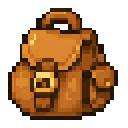
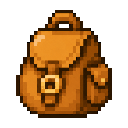
feat(P02-T05): apply bag asset and add gacha candidate

diff --git a/docs/PROGRESS.md b/docs/PROGRESS.md
@@ -174,8 +174,10 @@ P02-T05 구현 완료, 개발자 리뷰 대기.
 - `game-frame`, `inventory`, `progress` UI 에셋을 직접 픽셀 제작 방식으로 다시 그려 임시 사각 테두리 느낌을 줄이고 HUD/패널/슬롯/게이지의 게임 UI 감성을 보강했다.
 - `내 방` 집 에셋을 기준으로 만든 `같이 하기` 문 후보 `public/assets/rooms/my-room/menu-objects/candidates/object-visit-candidate-1.png`를 승인된 최종 런타임 에셋 `object-visit.png`로 승격했다.
 - 비교 검사용 시트 `public/assets/rooms/my-room/menu-objects/candidates/object-visit-candidate-1-preview.png`에는 기준 `내 방`, 현재 `같이 하기`, 신규 후보를 128px/64px로 나란히 배치했다.
-- 다음 에셋 후보로 `꾸미기` 가방 `public/assets/rooms/my-room/menu-objects/candidates/object-customize-candidate-1.png`를 만들었다. 승인 전이므로 런타임 최종 `object-customize.png`는 아직 덮어쓰지 않았다.
+- `꾸미기` 가방 후보 `public/assets/rooms/my-room/menu-objects/candidates/object-customize-candidate-1.png`를 승인된 최종 런타임 에셋 `object-customize.png`로 승격했다.
 - 비교 검사용 시트 `public/assets/rooms/my-room/menu-objects/candidates/object-customize-candidate-1-preview.png`에는 기준 `내 방`, 승인된 `같이 하기`, 현재 `꾸미기`, 신규 후보를 128px/64px로 나란히 배치했다.
+- 다음 에셋 후보로 `뽑기` 기계 `public/assets/rooms/my-room/menu-objects/candidates/object-gacha-candidate-1.png`를 만들었다. 승인 전이므로 런타임 최종 `object-gacha.png`는 아직 덮어쓰지 않았다.
+- 비교 검사용 시트 `public/assets/rooms/my-room/menu-objects/candidates/object-gacha-candidate-1-preview.png`에는 기준 `내 방`, 승인된 `같이 하기`, 승인된 `꾸미기`, 현재 `뽑기`, 신규 후보를 128px/64px로 나란히 배치했다.
 - 승인된 `source-scene.png`, `base-room.png`, `foreground-scene.png`의 SHA-256 hash는 변경 전과 동일하며, 각각 `source/`와 `layers/` 하위 폴더로 정리했다.
 - `public/assets/**` 루트에는 런타임 최종 에셋만 두고, 승인 전 후보는 `menu-objects/candidates/`처럼 별도 하위 폴더에 둔다.
 - `docs/tasks/phase-02/T05-management-inventory.md`, `docs/PIXEL_ASSET_PIPELINE.md`, `docs/DECISIONS.md`를 새 헤더 에셋 메뉴 방향에 맞게 갱신했다.
@@ -191,7 +193,7 @@ P02-T05 구현 완료, 개발자 리뷰 대기.
 - `public/assets/characters/deebi/deebi.png`는 개발자 제공 기준 캐릭터 원본으로 취급한다. 원본을 덮어쓰지 말고, 필요하면 파생 파일만 만든다.
 - UI 에셋은 용도별로 `public/assets/ui/game-frame/`, `public/assets/ui/inventory/`, `public/assets/ui/progress/`에 있다. 텍스트/숫자는 에셋에 굽지 않고 HTML로 유지한다.
 - 헤더 메뉴 에셋은 `public/assets/rooms/my-room/menu-objects/object-visit.png`, `object-my-room.png`, `object-customize.png`, `object-gacha.png` 파일을 사용한다. 현재 실제 버튼은 헤더에 있고 stage 내부에는 없다.
-- `같이 하기` 문 품질 리워크는 최종 `object-visit.png`에 반영 완료했다. 다음은 `꾸미기` 가방 후보 `menu-objects/candidates/object-customize-candidate-1.png`를 개발자가 보고 승인하면 최종 `object-customize.png`로 승격한다. 승인 전에는 `뽑기` 후보를 만들지 않는다.
+- `같이 하기` 문과 `꾸미기` 가방 품질 리워크는 최종 런타임 에셋에 반영 완료했다. 다음은 `뽑기` 기계 후보 `menu-objects/candidates/object-gacha-candidate-1.png`를 개발자가 보고 승인하면 최종 `object-gacha.png`로 승격한다.
 - 다음 작업자가 이어서 손볼 가능성이 높은 파일은 `src/components/dashboard/dashboard-shell.tsx`, `src/components/dashboard/game-room-frame.tsx`, `src/components/dashboard/my-room-stage.tsx`, `src/lib/mock/room-assets.ts`, `src/app/globals.css`다.
 - P02-T06 방치 모드를 시작하기 전에는 P02-T05 리뷰가 통과되어야 한다. 방치 모드에서는 이 공통 프레임에서 우측 command panel과 하단 Dock을 어떻게 접거나 축소할지 결정하면 된다.
 
@@ -202,11 +204,13 @@ P02-T05 구현 완료, 개발자 리뷰 대기.
 - `npm run build` 통과, `/dashboard` static route 생성 확인
 - 이미지 검사: 상단 오브젝트 PNG 4개가 `128x128` RGBA, 투명 모서리, 크로마키 잔여 0픽셀임을 확인
 - 이미지 검사: 최종 `object-visit.png`가 `128x128` RGBA, alpha bbox `83x106`, 투명 모서리, 크로마키 잔여 0픽셀임을 확인
-- 이미지 검사: `object-customize-candidate-1.png`가 `128x128` RGBA, alpha bbox `96x108`, 투명 모서리, 크로마키 잔여 0픽셀임을 확인
+- 이미지 검사: 최종 `object-customize.png`가 `128x128` RGBA, alpha bbox `96x108`, 투명 모서리, 크로마키 잔여 0픽셀임을 확인
+- 이미지 검사: `object-gacha-candidate-1.png`가 `128x128` RGBA, alpha bbox `83x112`, 투명 모서리, 크로마키/마젠타 잔여 0픽셀임을 확인
 - 이미지 검사: 헤더 메뉴 PNG 4종의 가시 색 수가 64색 이하임을 확인
 - 브라우저 데스크톱 확인: 브랜드 텍스트, 상단 헤더 프레임, 우상단 코인 HUD 없이 헤더 중앙에 `같이 하기`/`내 방`/`꾸미기`/`뽑기` 메뉴가 64px 아이콘으로 선명하게 보이고, 하단 Dock의 오늘 커밋 표시를 확인했다.
 - 브라우저 데스크톱 확인: `1280px` 폭에서 `scrollWidth=1280`, 헤더 메뉴 그룹 중심과 헤더 중심의 차이 `0px`, 헤더 배경 투명/테두리 0/box-shadow none임을 확인했다.
 - 브라우저 데스크톱 확인: 적용 후 `같이 하기` 메뉴가 최종 `object-visit.png`를 참조하고, 헤더 메뉴 중심 차이 `0px`, 코인 HUD 없음 상태를 유지함을 확인했다.
+- 브라우저 데스크톱 확인: 적용 후 `꾸미기` 메뉴가 최종 `object-customize.png`를 참조하고, 헤더 메뉴 중심 차이 `0px`, 코인 HUD 없음 상태를 유지함을 확인했다.
 - 이미지 확인: `object-my-room.png`가 `128x128` RGBA, 투명 모서리, 마젠타 계열 배경 제거 상태임을 확인했다.
 - UI 에셋 확인: `game-frame`, `inventory`, `progress` PNG가 기존 경로/크기로 갱신되고 브라우저에서 패널, 슬롯, 게이지에 정상 적용됨을 확인했다.
 - 브라우저 상호작용 확인: 헤더 에셋 메뉴의 `같이 하기`, `내 방`, `꾸미기` 클릭 동작 통과